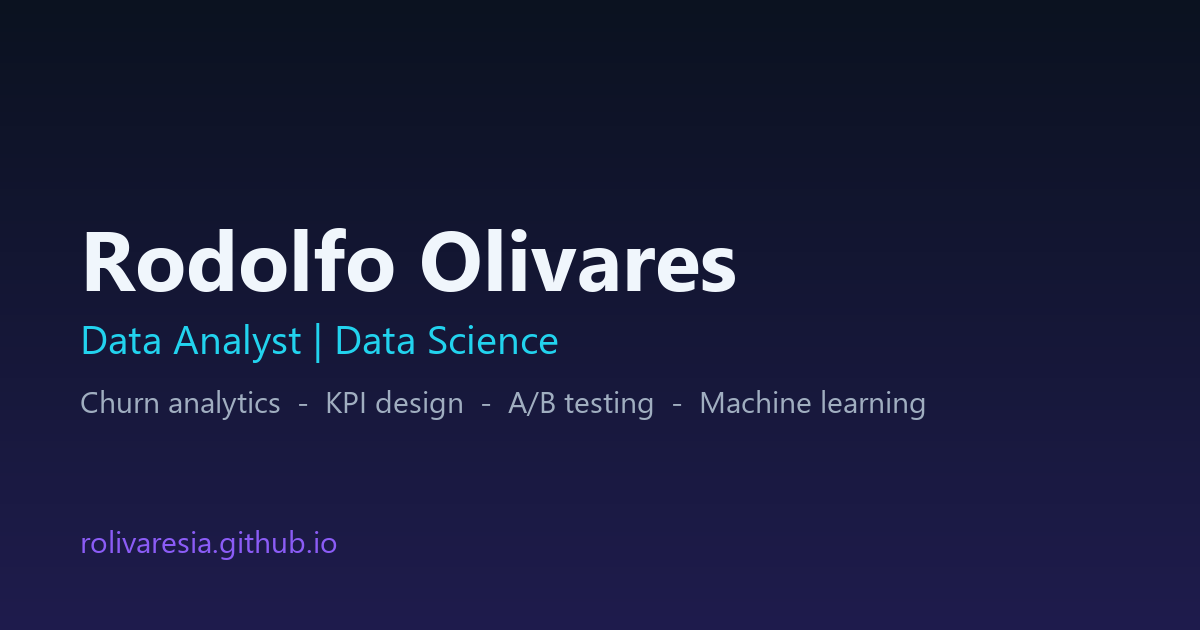
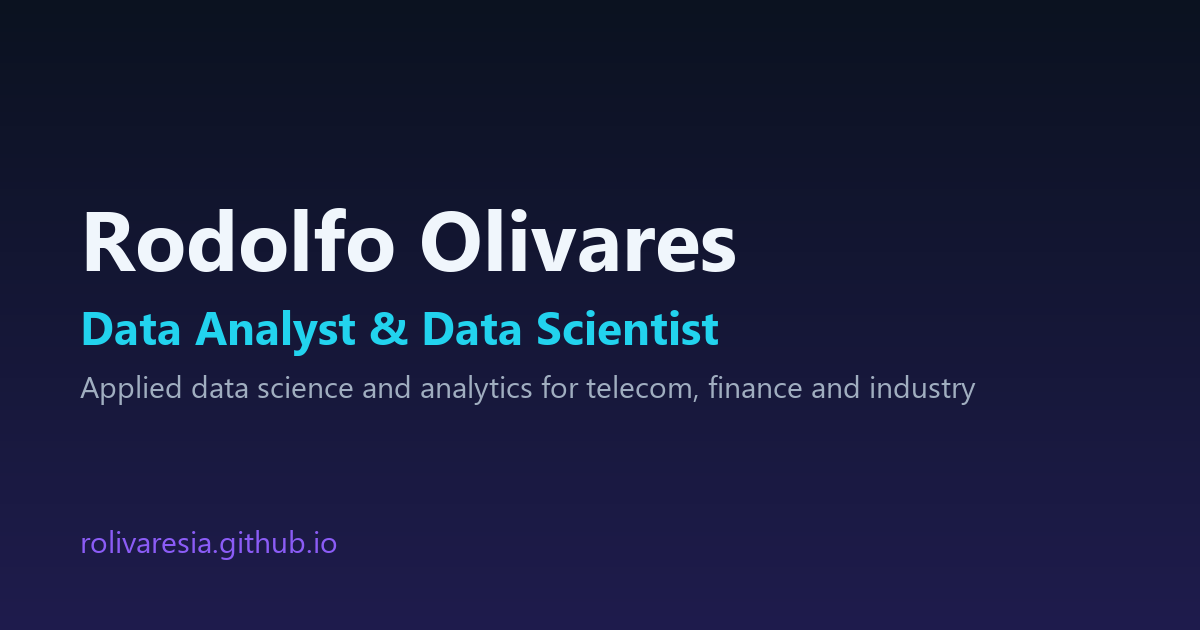
Headline: Data Analyst & Data Scientist; new social image

Changed region(s): [[0.0617, 0.3317, 0.6167, 0.573], [0.0617, 0.6032, 0.8325, 0.6635]]

diff --git a/index.html b/index.html
@@ -3,11 +3,11 @@
 <head>
   <meta charset="utf-8">
   <meta name="viewport" content="width=device-width, initial-scale=1">
-  <title>Rodolfo Olivares | Data Analyst | Data Science</title>
-  <meta name="description" content="Rodolfo Olivares, Data Analyst with experience in churn analytics, KPI design, A/B testing and machine learning (SQL, Python, R, BigQuery, Power BI). From Chile, now in Australia.">
+  <title>Rodolfo Olivares | Data Analyst &amp; Data Scientist</title>
+  <meta name="description" content="Rodolfo Olivares, Data Analyst and Data Scientist: applied data science and analytics for telecom, finance and industry (SQL, Python, R, BigQuery, Power BI). From Chile, now in Australia.">
   <meta name="theme-color" content="#0b1220">
   <link rel="icon" href="assets/favicon.svg" type="image/svg+xml">
-  <meta property="og:title" content="Rodolfo Olivares | Data Analyst | Data Science">
+  <meta property="og:title" content="Rodolfo Olivares | Data Analyst &amp; Data Scientist">
   <meta property="og:description" content="Churn analytics, KPI design, A/B testing and machine learning. SQL, Python, R, BigQuery, Power BI.">
   <meta property="og:type" content="website">
   <meta property="og:url" content="https://rolivaresia.github.io/">
@@ -16,7 +16,7 @@
   <script>try{var t=localStorage.getItem('theme');if(!t){t=matchMedia('(prefers-color-scheme: light)').matches?'light':'dark'}document.documentElement.dataset.theme=t}catch(e){}</script>
   <link rel="stylesheet" href="style.css">
   <script type="application/ld+json">
-  {"@context":"https://schema.org","@type":"Person","name":"Rodolfo Olivares","jobTitle":"Data Analyst","url":"https://rolivaresia.github.io/","sameAs":["https://github.com/rolivaresIA","https://www.linkedin.com/in/rodolivaresa/"],"knowsAbout":["Data analysis","Churn analytics","Machine learning","SQL","Python","R"]}
+  {"@context":"https://schema.org","@type":"Person","name":"Rodolfo Olivares","jobTitle":"Data Analyst and Data Scientist","url":"https://rolivaresia.github.io/","sameAs":["https://github.com/rolivaresIA","https://www.linkedin.com/in/rodolivaresa/"],"knowsAbout":["Data analysis","Churn analytics","Machine learning","SQL","Python","R"]}
   </script>
 </head>
 <body>
@@ -60,7 +60,7 @@
         <div class="hero-copy">
           <p class="badge"><span class="dot"></span> Open to data roles in Australia and Chile</p>
           <h1>Hi, I'm <span class="grad">Rodolfo</span>.<br>I turn data into <span class="typed-wrap"><span id="typed" class="grad"></span><span class="caret" aria-hidden="true"></span></span></h1>
-          <p class="lead">Data Analyst and aspiring Data Scientist from Chile, now in Australia. Industrial engineer with postgraduate training in Data Science and AI, turning telecom, finance and heavy-equipment data into decisions people can act on.</p>
+          <p class="lead">Data Analyst and Data Scientist from Chile, now in Australia. Applied data science and analytics for telecom, finance and industry. Industrial engineer with postgraduate training in Data Science and AI, turning data into decisions people can act on.</p>
           <div class="cta">
             <a class="btn" href="#projects">See my projects</a>
             <a class="btn btn-ghost" href="https://github.com/rolivaresIA/Curriculum/raw/main/Rodolfo_Olivares_CV.pdf"><svg class="ic"><use href="#i-down"/></svg> Download CV</a>

diff --git a/README.md b/README.md
@@ -1,5 +1,5 @@
 # rolivaresia.github.io
 
-Personal portfolio of Rodolfo Olivares (Data Analyst | Data Science): <https://rolivaresia.github.io/>
+Personal portfolio of Rodolfo Olivares (Data Analyst & Data Scientist): <https://rolivaresia.github.io/>
 
 A single static page (`index.html`, `style.css`, `script.js`) with no frameworks or build step: animated hero, light/dark theme, experience timeline, filterable project cards with detail windows, interactive skills, and a contact section. It respects `prefers-reduced-motion` and works on mobile.
